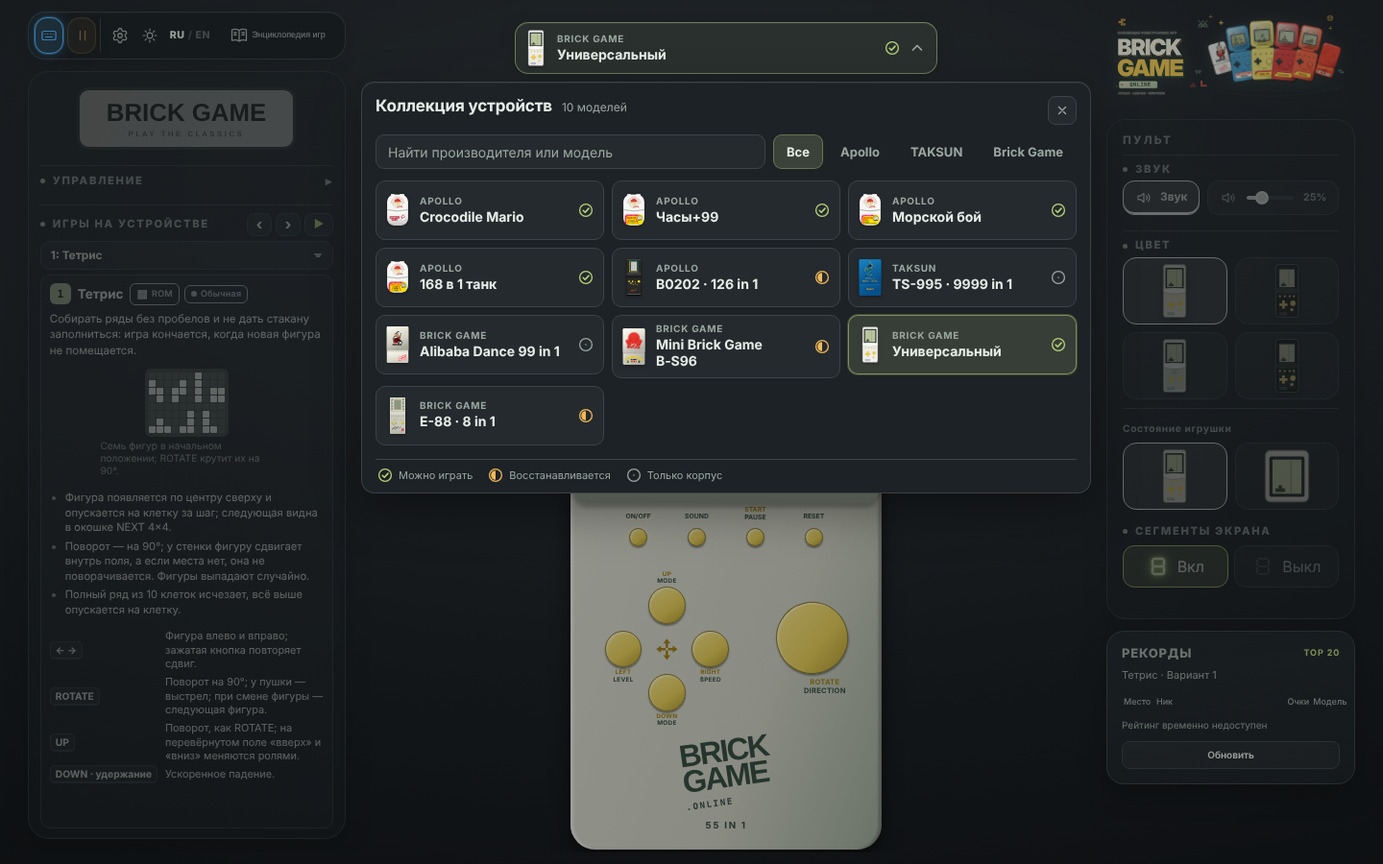
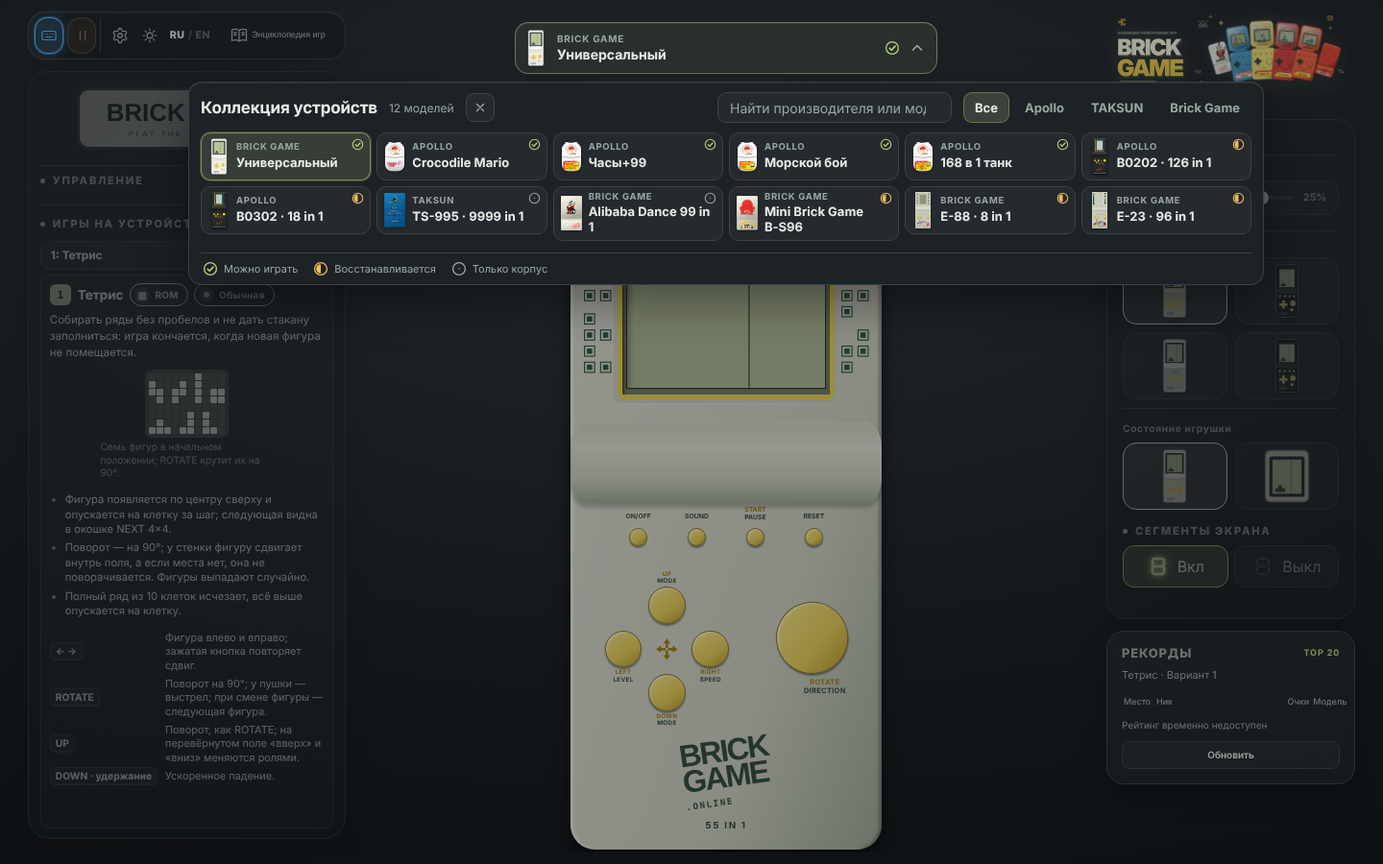
Docs and screenshots: compact picker, E-88 menu ROM findings, help-text policy, road rule
Claude-Session: https://claude.ai/code/session_01HTeFxEvLK92BAnJD9rQXz2

Changed region(s): [[0.0312, 0.0933, 0.9062, 0.6222], [0.0312, 0.56, 0.2188, 0.9022]]

diff --git a/docs/encyclopedia.md b/docs/encyclopedia.md
@@ -4,7 +4,7 @@
 
 Слева у приставки остаётся одна статичная схема и краткая памятка. Крупный геймплей в энциклопедии — детерминированная запись нашего настоящего движка (`demoClip.ts`), без аудио, игровых рекордов или сетевых партий. Движение можно остановить; reduced motion начинает показ с остановленного кадра. Таймер не рисует скрытый документ или холст вне экрана и удаляется при смене статьи. Для Mario показана оригинальная упаковка; записи матричного движка к его сегментному экрану не применяются.
 
-Каталог отсортирован по **возрастанию редкости** игры (Common → Uncommon → Rare → Ultra Rare → Mobile, затем игры без редкости: Mario, часы, «Ромео и Джульетта»), внутри ступени — по убыванию оценки источников; порядок сохраняется при поиске, выборе категории и смене языка. Редкость — по [Retro Consoles Wiki](https://retroconsoles.fandom.com/wiki/Brick_Game#Games), соответствие игр — [`docs/brick/rarity.md`](brick/rarity.md); значок редкости стоит в списке и в заголовке статьи, у вариаций игры его нет. Значки независимы: **ROM** — правила исследованы по дампу или коду эмулятора, **AI** — авторская логика проекта по описанию и наблюдениям. **α** обозначает прототип с неполными правилами/вариантами, **β** — полный проверенный игровой цикл с продолжающейся доработкой. Процент источников не определяет стадию: лабиринт — 30% / AI / β; приближённый B0202 B01 — ROM / α. У «Пчёлок» происхождение показано отдельно для каждого варианта. Оценки готовности находятся в `src/games/quality.ts`, оценки отдельных native-профилей — в `src/devices/catalog.ts`. Подробнее — [проверка баланса](brick/balance-review.md).
+Страница **компактна**: вводный блок в две колонки (название слева, подзаголовок и пояснение справа), контейнер до 1760 px, список слева — компактные строки со значками одного размера, справа — демонстрация, цель, факты и схемы рядом друг с другом, правила и очки в две колонки, варианты и источники — в несколько колонок (Tetris с 51 вариантом на 1440 px — около 3000 px высоты против 5000). Значки ROM/AI, α/β и ступени редкости — одной формы (капсула с круглым значком), в списке и вариантах — уменьшенные. Каталог отсортирован по **возрастанию редкости** игры (Common → Uncommon → Rare → Ultra Rare → Mobile, затем игры без редкости: Mario, часы, «Ромео и Джульетта»), внутри ступени — по убыванию оценки источников; порядок сохраняется при поиске, выборе категории и смене языка. Редкость — по [Retro Consoles Wiki](https://retroconsoles.fandom.com/wiki/Brick_Game#Games), соответствие игр — [`docs/brick/rarity.md`](brick/rarity.md); значок редкости стоит в списке и в заголовке статьи, у вариаций игры его нет. Значки независимы: **ROM** — правила исследованы по дампу или коду эмулятора, **AI** — авторская логика проекта по описанию и наблюдениям. **α** обозначает прототип с неполными правилами/вариантами, **β** — полный проверенный игровой цикл с продолжающейся доработкой. Процент источников не определяет стадию: лабиринт — 30% / AI / β; приближённый B0202 B01 — ROM / α. У «Пчёлок» происхождение показано отдельно для каждого варианта. Оценки готовности находятся в `src/games/quality.ts`, оценки отдельных native-профилей — в `src/devices/catalog.ts`. Подробнее — [проверка баланса](brick/balance-review.md).
 
 ## Источники и оценка
 

diff --git a/docs/toys.md b/docs/toys.md
@@ -28,12 +28,11 @@
 ## Каталог устройств
 
 Каталог заменил прежнюю горизонтальную карусель. Закрытая панель стоит там же, где стояла карусель, — по центру над консолью; высота шапки и положение консоли не меняются
-(на телефоне панель занимает всю ширину окна). Нажатие в любом месте панели (или стрелка вниз при фокусе на ней) раскрывает каталог **вниз поверх страницы**; ничего вокруг не сдвигается.
+(на телефоне панель занимает всю ширину окна). Нажатие в любом месте панели (или стрелка вниз при фокусе на ней) раскрывает каталог **вниз поверх страницы**; ничего вокруг не сдвигается. Каталог **широкий и компактный**: до 1120 px, заголовок, поиск и категории в одной строке, карточки по 176 px и шире (на 1440 px — две строки по шесть карточек, около 210 px высоты), значок готовности — в углу карточки, чтобы названию хватало ширины и слово «Универсальный» не переносилось по буквам; на телефоне — одна колонка.
 
 **Состав каталога.** Заголовок «Коллекция устройств» с числом моделей и кнопкой закрытия, одно поле поиска (производитель, название, обозначение: `E88`, `e-88`, `B0202`, `126 in 1`) и категории
 **Все | Apollo | TAKSUN | Brick Game** (по умолчанию «Все», фильтров по готовности нет). Модели — карточки одной сетки: настоящая миниатюра корпуса (`miniConsole` из `shellPicker.ts`,
-цвет — `thumbShell` из админки), мелкий вторичный текст — производитель, основной — модель, справа один значок готовности. Brick Game — обычная модель сетки (по умолчанию выбрана
-именно она), а не закреплённый блок. Новая модель, добавленная в `TOY_IDS`, появляется в каталоге сама: запись в `DEVICE_DEFAULTS` обязательна, без неё проект не соберётся.
+цвет — `thumbShell` из админки), мелкий вторичный текст — производитель, основной — модель, справа один значок готовности. Универсальный Brick Game — **первая модель каталога** (`FIRST_DEVICE` в `deviceCatalog.ts`; она же выбрана по умолчанию), дальше бренды подряд: Apollo, TAKSUN, Brick Game. Новая модель, добавленная в `TOY_IDS`, появляется в каталоге сама: запись в `DEVICE_DEFAULTS` обязательна, без неё проект не соберётся.
 
 | Значок | Готовность | Смысл |
 | --- | --- | --- |
@@ -82,7 +81,7 @@
 Проверки: `tests/app/deviceCatalog.test.ts`, `tests/app/inputLock.test.ts`, `tests/smoke/picker.spec.ts` (открытие и закрытие, поиск, категории, ввод, клавиатура, адаптив для 15 карточек, RU/EN).
 
 ![Каталог устройств, закрытая панель на десктопе](screenshots/device-picker-desktop-closed.png)
-![Каталог устройств, открыт на десктопе: три колонки](screenshots/device-picker-desktop-open.png)
+![Каталог устройств, открыт на десктопе: две строки по шесть карточек, универсальный первым](screenshots/device-picker-desktop-open.png)
 ![Каталог устройств на телефоне: закрыт и открыт](screenshots/device-picker-phone-closed.png)
 ![Каталог устройств на телефоне, открыт: одна колонка, список прокручивается внутри](screenshots/device-picker-phone-open.png)
 

diff --git a/docs/devices/e88-b0202.md b/docs/devices/e88-b0202.md
@@ -255,3 +255,15 @@ node tools/native-config-check.mjs
 | --- | --- | --- | --- | --- | --- |
 | E‑88 | [Снимок](../screenshots/e88-menu.jpg) | [Снимок](../screenshots/e88-play.jpg) | [Снимок](../screenshots/e88-screen.jpg) | [Снимок](../screenshots/e88-mobile.jpg) | [Снимок](../screenshots/device-picker-desktop-open.png) |
 | B0202 | [Снимок](../screenshots/apollo-b0202-menu.jpg) | [Снимок](../screenshots/apollo-b0202-play.jpg) | [Снимок](../screenshots/apollo-b0202-screen.jpg) | [Снимок](../screenshots/apollo-b0202-mobile.jpg) | [Снимок](../screenshots/device-picker-desktop-open.png) |
+
+## Меню E‑88: рекорд очков и рядов (сверка с ROM)
+
+Проверено исполнением ROM `E88_8in1.bin` (BrickEmuPy, закреплённая ревизия; скрипты стенда — в `scripts/research`, опыт воспроизводится тем же `Machine`, что и остальные):
+
+- В меню E‑88 (и на заставке до первого нажатия) надписи **чередуются каждые ≈ 1,05 с (63 такта)**: «HI-SCORE» (сегменты `193_2` + `195_2`, цифры — рекорд очков) и «LINES» (сегмент `193_0`, цифры — число рядов).
+- Рекорд рядов — это **число рядов партии, поставившей рекорд очков** (не независимый максимум): партия 500 очков / 60 рядов после рекорда 1230 / 45 оставила на экране 1230 и 45; следующий рекорд 2000 / 10 заменил обе цифры.
+- **Шкала «фруктов» в меню E‑88 не заполняется**: во всех состояниях меню (включение, выбор номера, смена уровня 0–12 и скорости 0–9) не меняется ни один сегмент значков справа; меняются только цифры SPEED и LEVEL, матрица и две надписи выше. Заполнение шкалы значков и мигание цифр — особенность Mini Brick B-S96, у E‑88 её нет.
+- В приложении меню E‑88 теперь чередует HI-SCORE и LINES (`NativeScreen`, `E88_MENU_PHASE_TICKS`); рекорд рядов хранится рядом с рекордом очков под ключом `<ключ рекорда>:lines`, обновляется вместе с ним. У остальных native-устройств (B0202, E‑23, B0302) поведение меню не проверено и не менялось.
+- Замечено, но не менялось: ROM в состоянии с ненулевым счётом зажигает ещё один сегмент `177_2` — нулевую цифру справа от четырёх разрядов (на LCD рекорд 1230 читается «12300»). Приложение его не зажигает; соответствует ли это счёту ×10, не установлено, поэтому рисунок счёта пока не тронут.
+
+![Меню E‑88: HI-SCORE 1230 и LINES 45 чередуются](../screenshots/e88-menu-records.png)

diff --git a/docs/minibrick.md b/docs/minibrick.md
@@ -41,7 +41,9 @@
 Как у остальных игрушек с играми (`src/app/miniInfo.ts`): наклейка «96 IN 1», сворачиваемая схема управления (клавиши — по текущим привязкам) и раздел «Игры на устройстве» с двумя вкладками —
 **00–01 «Гонки»** (две вариации: крест и треугольник) и **02–96 «Тетрис»**. У каждой игры одно общее описание «по факту реализации» (`src/brick/guides/mini.ts`: цель, схемы, правила, кнопки, очки),
 а не карточка на каждый номер; вариации тетриса по отдельности не описываются, порядок номеров — допущение. Вкладка с точкой — игра под курсором меню консоли; щелчок по вкладке ставит курсор
-меню на первый номер этой игры (`MiniConsole.selectGame`). Прежний текст слева («Красно-синий складной корпус…», «97 номеров…») удалён.
+меню на первый номер этой игры (`MiniConsole.selectGame`). Прежний текст слева («Красно-синий складной корпус…», «97 номеров…») удалён. Куплет «Коробейников» и сцена с флагом перед стартом гонки — не правило игры, а логика воссоздания: они описаны в допущениях (энциклопедия), а не в левой панели.
+
+**Ложбина под три служебные кнопки** (ON/OFF, MUSIC/VOICE, RESET) отлита в той же форме, что у TAKSUN TS-995: общая кривая `FUNCTION_GROOVE_SHAPE` (`src/app/groove.ts`), сдвинутая на (−32, −26) и увеличенная в 1,08 раза так, чтобы пройти в пределах 4 клеток чертежа от центров всех трёх кнопок; толщина — по размеру кнопок.
 
 Число вариаций тетриса берётся из данных (`MINI_TETRIS_COUNT` = 95: номера 02–96); если вариаций должно быть 94, это правится в `src/brick/games/mini.ts`.
 

diff --git a/docs/brick-games.md b/docs/brick-games.md
@@ -59,6 +59,8 @@ export const myDef: BrickGameDef = { id: 'tank', declaredModes: 5, modes: MODES,
 (жизни, очки, пороги, скорости), поэтому текст не может разойтись с кодом без сбоя теста; реестр — `src/brick/guides/index.ts` (`BRICK_GUIDES` по идентификатору каталога; «Тетрис с большими фигурами» и «Тетрис Pentix» — одно описание).
 Панель рисует его в `src/app/guidePanel.ts`; варианты берутся из `BrickGameDef.modes`.
 
+**Что пишется в описание.** Только игра: цель, правила геймплея, кнопки, очки, рост скорости, жизни. Логика воссоздания — звук и заставки, происхождение чисел («по ROM», «по записи владельца»), оговорки о неподтверждённом, ограничения реализации — в правила, `progression` и `lives` не попадает: она живёт в `assumptions`, которые энциклопедия показывает отдельным блоком под источниками (`src/encyclopedia/page.ts`). Исправлено 2026-10-27: куплет «Коробейников» и сцена с флагом у Mini Brick, «адаптация», «ещё не подтверждено дампом», «по описанию вики» и т. п. перенесены в допущения.
+
 Новая игра = модуль в `games/` + `BrickGameDef` + запись в `BRICK_GAMES` + `guides/<игра>.ts` + запись в `BRICK_GUIDES` + тесты (`conformance`, правила, `<игра>.guide.test.ts`) + документ в `docs/brick/`.
 Что считать допущением: всё, чего нет в коде донора (`n0Live/BrickGame`) и чего мы не видели на устройстве; в описании — только настоящие допущения, остальное («не установлено») — в документе игры.
 

diff --git a/docs/brick/library.md b/docs/brick/library.md
@@ -44,7 +44,7 @@
 | Tank / Battle City | Существующая `tank`, 5 режимов |
 | Tetromino / Tetris / Pentomino | Существующие `tetris`, `tetris-big`, `tetris-pentix` |
 | Car racing, 2/3 lanes | Существующая `racing` |
-| Obstacles Race | **`obstacle-race`**: изгибающаяся дорога, границы, ускорение; вариантов 2 (02 — вверх дном) |
+| Obstacles Race | **`obstacle-race`**: изгибающаяся дорога, границы, ускорение; вариантов 2 (02 — вверх дном). С 2026-10-27 стенки трассы **не отнимают жизнь**: они не пускают машину (руль упирается в бордюр), а на повороте подталкивают её на колонку; жизнь стоит только камень (`RoadGame.fitsRoad`/`settleOnRoad`). Отпечаток прогона варианта 01 в `library.modes.test.ts` обновлён осознанно |
 | Shooting Disappearing | Существующие `shooting-array`, `shooting-figures`; все четыре режима раздела Modes есть среди 16 вариантов `shooting-array` ([modes-reference.md](modes-reference.md)) |
 | Shooting Filling | Существующая `construction`; все четыре режима раздела Modes есть среди её 8 вариантов ([modes-reference.md](modes-reference.md)) |
 | Frogger | Существующая `frog` |
